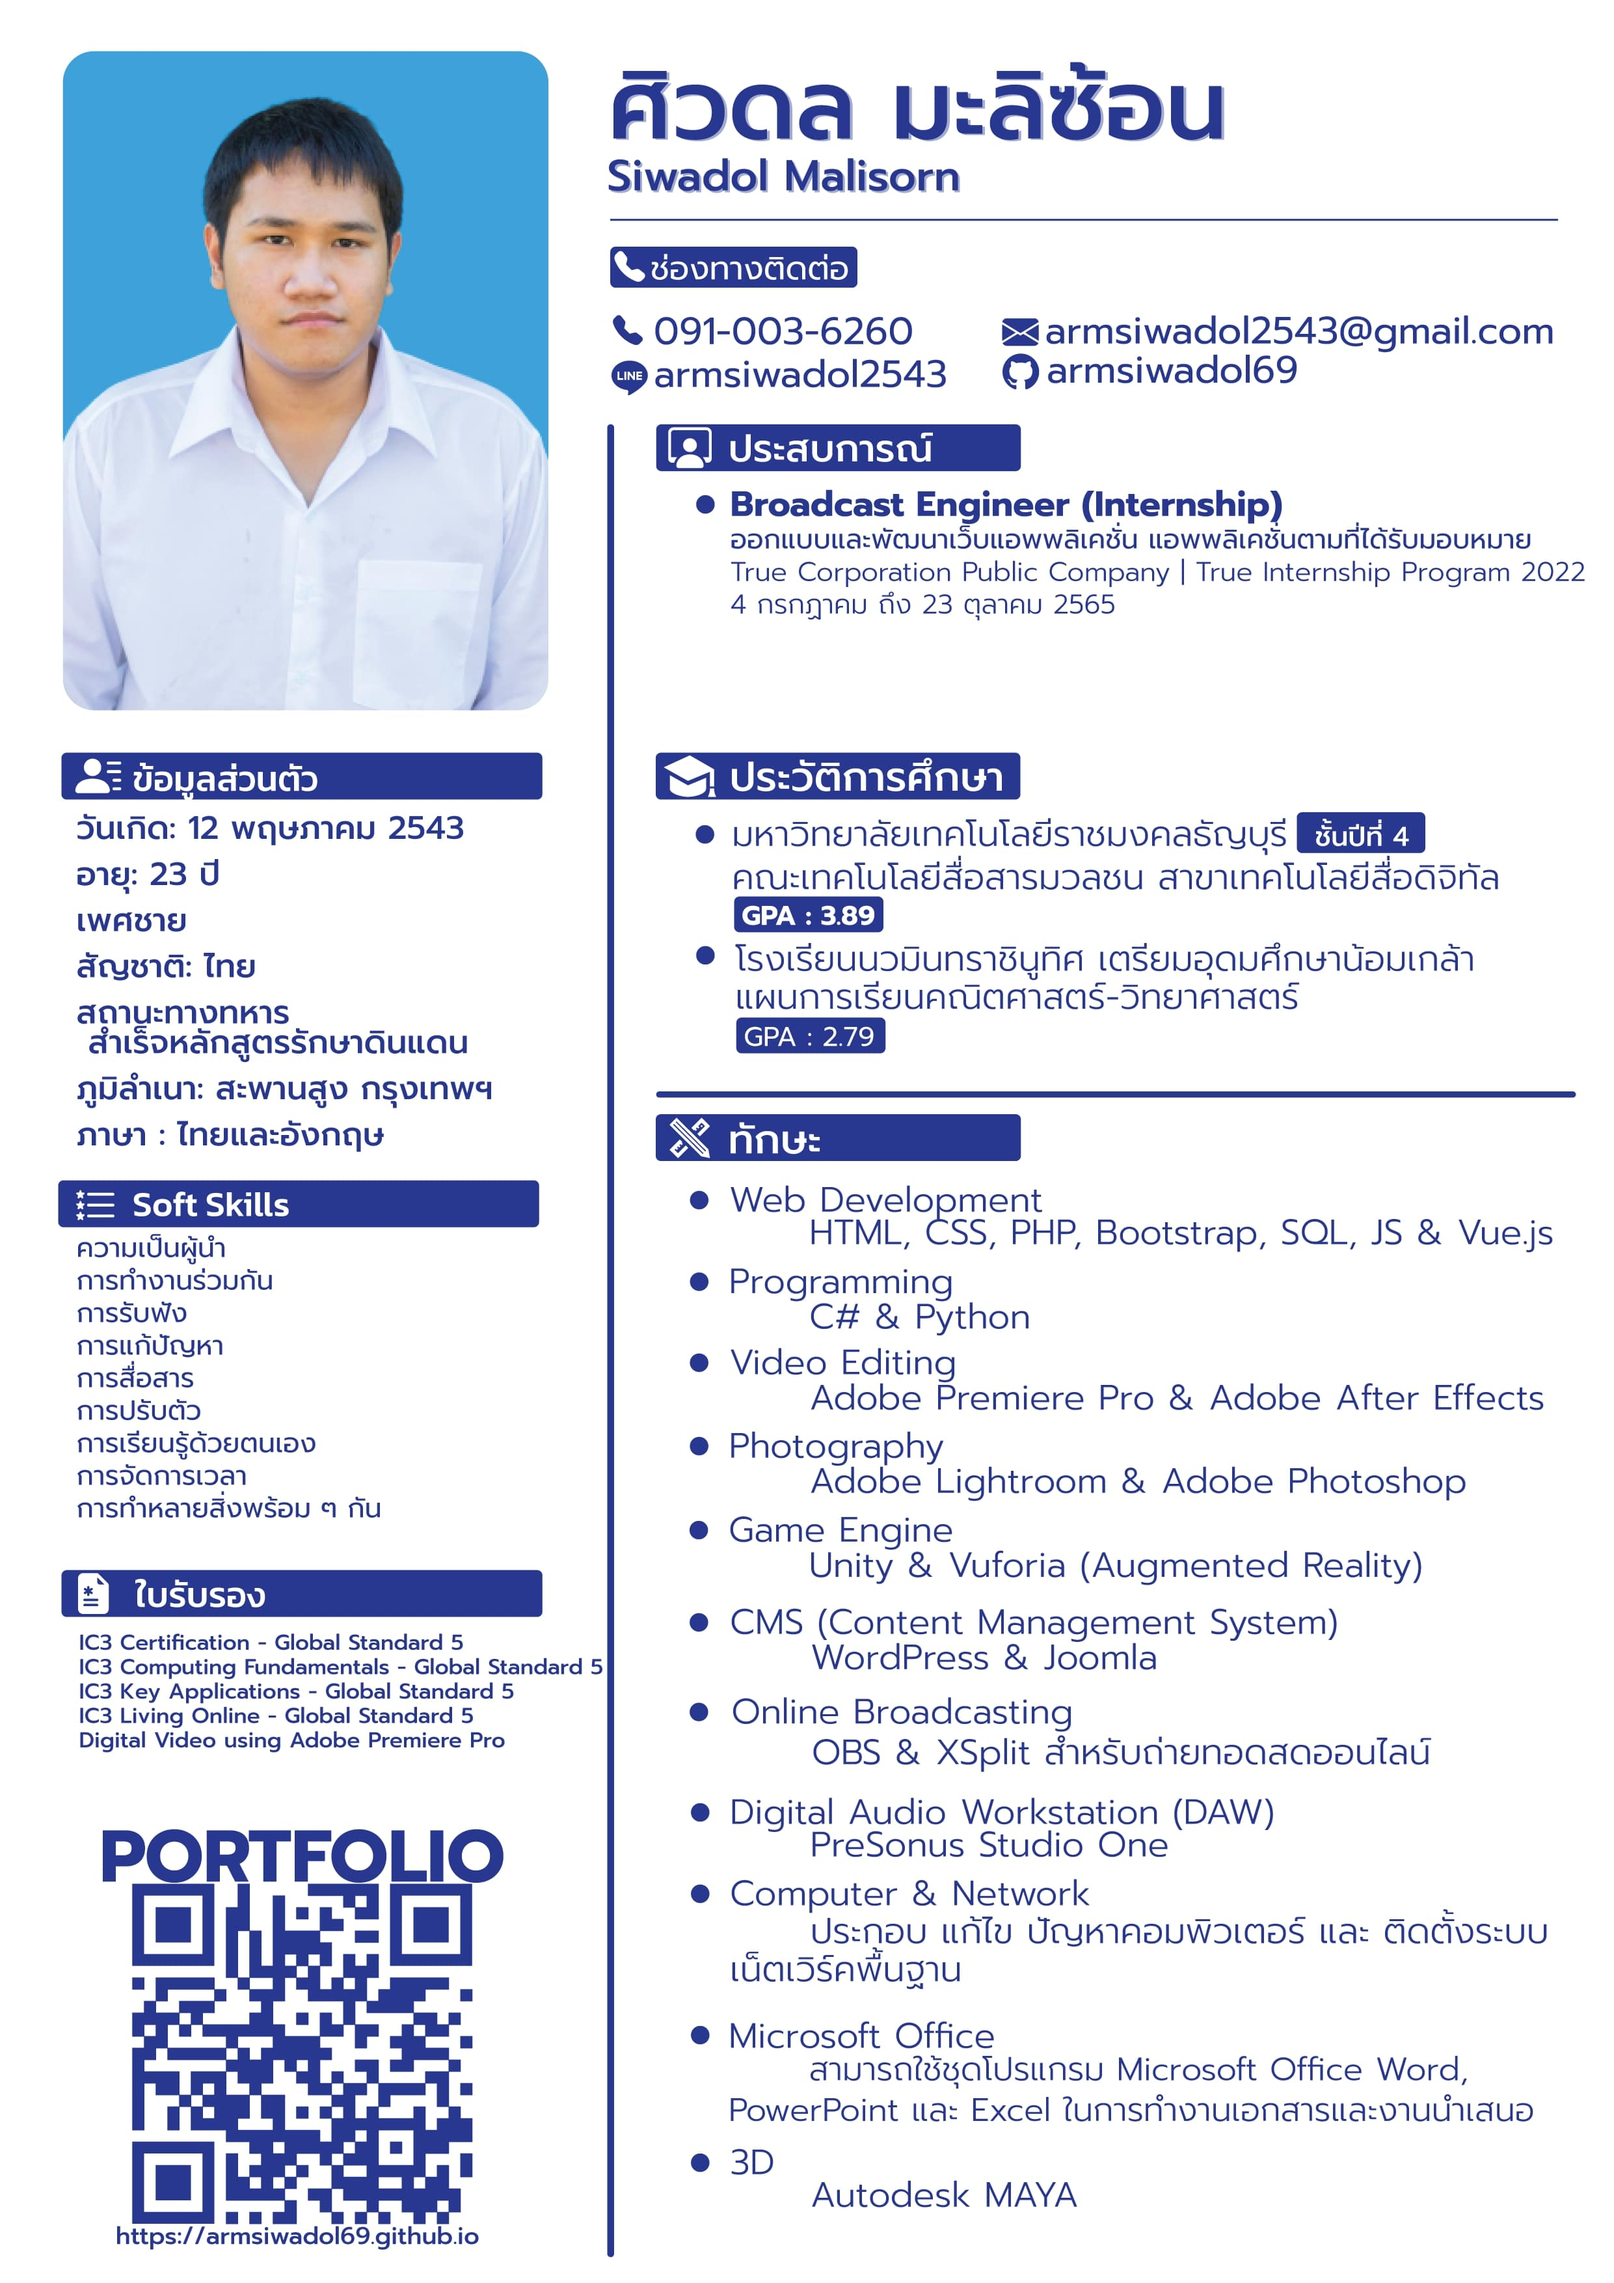
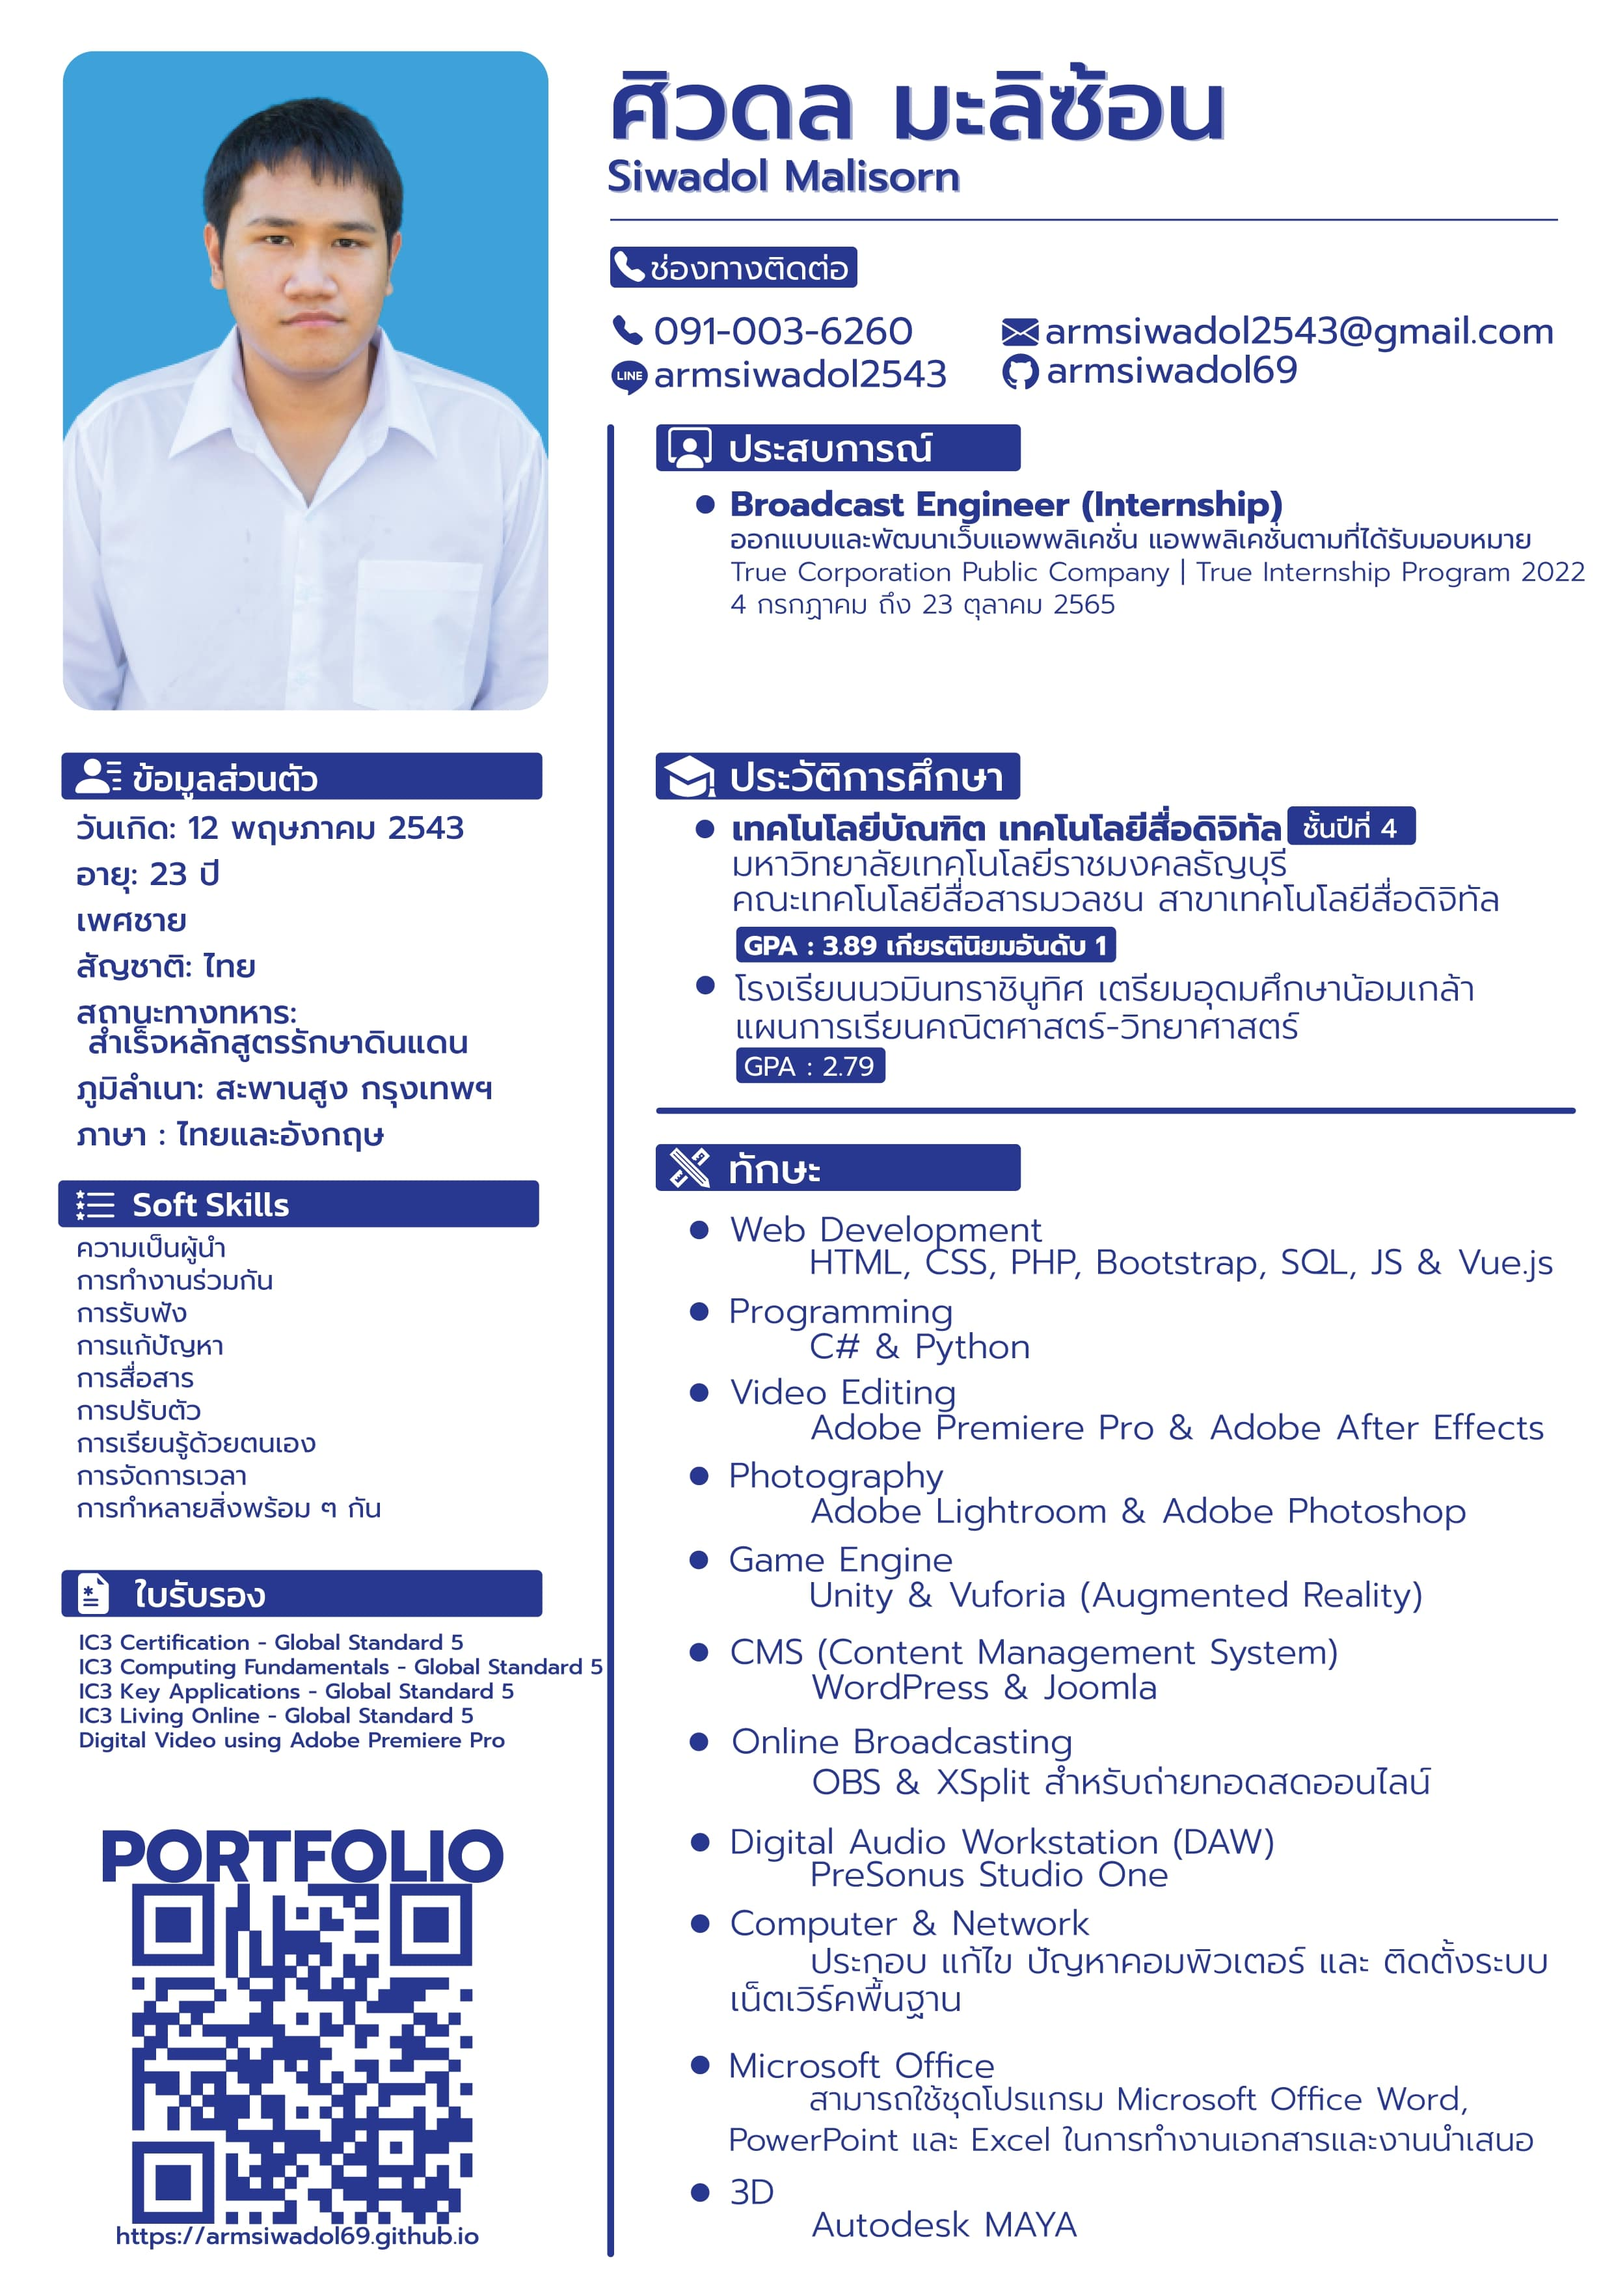
[edit] resume

Changed region(s): [[0.4035, 0.3418, 0.9621, 0.9943]]

diff --git a/index.html b/index.html
@@ -90,16 +90,15 @@ Currently studying in the 3rd year in Digital Media Technology, Faculty of Mass 
                         <h2 class="section-title main-text"><i class="bi bi-file-medical"></i> EDUCATION</h2>
                         <ul class="time-line">
                             <li class="time-line-item">
-                                <span class="badge badge-primary si-btn">2019 - NOW</span>
+                                <span class="badge badge-primary si-btn" style="font-size: 1rem;">2019 - 2023</span>
                                 <h6 class="time-line-item-title">Bachelor's Degree, 4th Year</h6>
                                 <p class="time-line-item-content">Digital Media Technology</p>
                                 <p class="time-line-item-content">Faculty of Mass Communication Technology <br>
                                     Rajamangala University of Technology Thanyaburi (RMUTT)</p>
-                                <h2 class="time-line-item-content font-weight-bold"> GPAX : 3.89
-                                </h2>
+                                <h2 class="time-line-item-content font-weight-bold"> GPAX : 3.89 <span class="badge badge-info" style="font-size: 1rem;">First-Class Honors</span></h2>
                             </li>
                             <li class="time-line-item">
-                                <span class="badge badge-primary si-btn">Before 2019</span>
+                                <span class="badge badge-primary si-btn" style="font-size: 1rem;">Before 2019</span>
                                 <h6 class="time-line-item-title"></h6>
                                 <p class="time-line-item-content">Math-Science (High School)</p>
                                 <p class="time-line-item-content">Nawaminthrachinuthit Triamudomsuksanomklao School (NTUN)</p>
@@ -113,7 +112,7 @@ Currently studying in the 3rd year in Digital Media Technology, Faculty of Mass 
                         <h2 class="section-title main-text"><i class="bi bi-award-fill"></i> Experience</h2>
                         <ul class="time-line">
                             <li class="time-line-item">
-                                <span class="badge badge-primary si-btn">2022</span>
+                                <span class="badge badge-primary si-btn" style="font-size: 1rem;">2022</span>
                                 <p class="time-line-item-title">Broadcast Engineer (Internship)</p>
                                 <h6 class="time-line-item-content">Design and develop websites, Web app, applications as assigned.</h6>
                                 <h6 class="time-line-item-content">True Internship Program 2022</h6>
@@ -325,6 +324,14 @@ Currently studying in the 3rd year in Digital Media Technology, Faculty of Mass 
                         <figcaption class="portfolio-item-details overlay">
                             <h5 class="portfolio-item-title">PROJECT 06</h5>
                             <p class="portfolio-item-description">MCT/RMUTT's New Year Wish Website Project!</p>
+                        </figcaption>
+                    </figure>
+                    <figure class="portfolio-item hover-box rounded mx-1 my-1" hidden>
+                        <a href="https://sixecom.vercel.app/" target="_blank"><img src="assets/images/img_a2.png"
+                                alt="project" class="portfolio-item-img"></a>
+                        <figcaption class="portfolio-item-details overlay">
+                            <h5 class="portfolio-item-title">PROJECT 07</h5>
+                            <p class="portfolio-item-description">Simple e-commerce project for study Vue.js</p>
                         </figcaption>
                     </figure>
                 </div>
